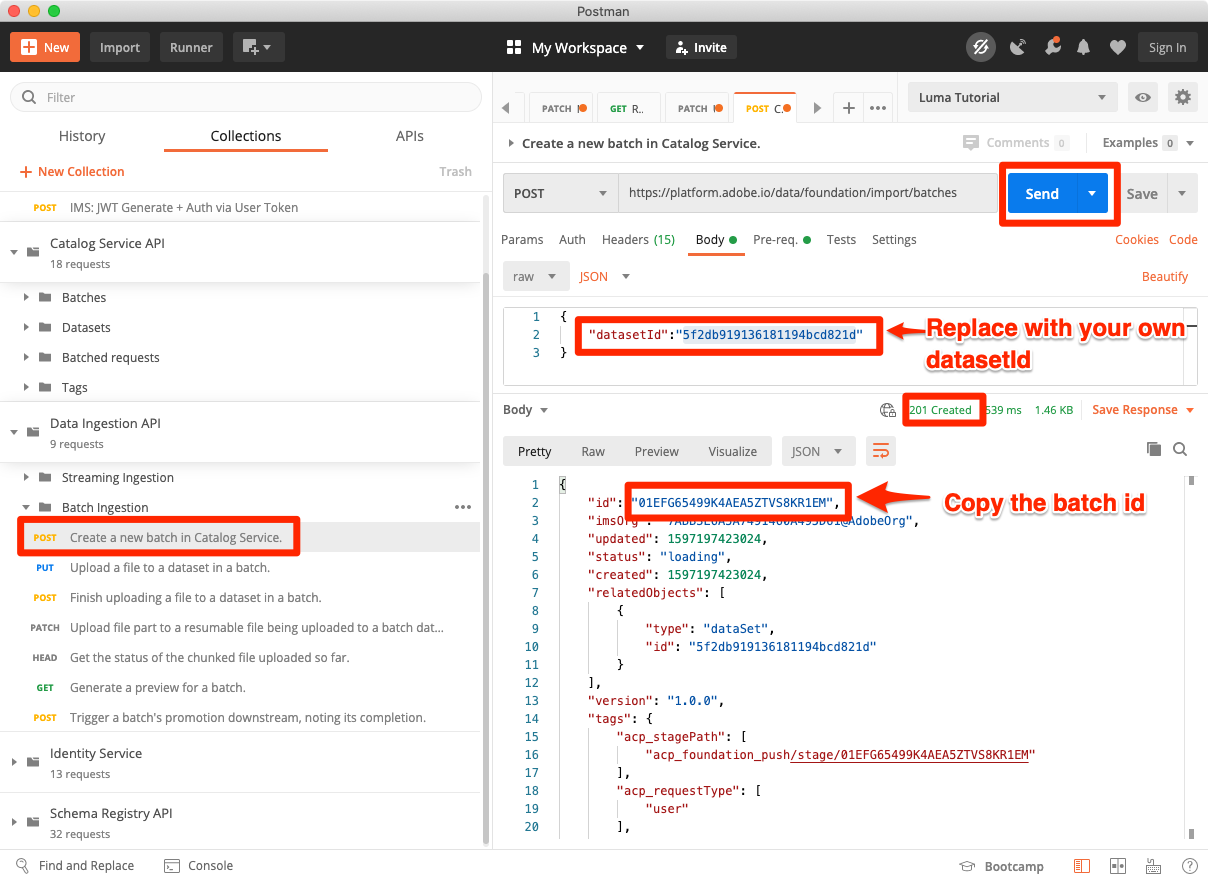
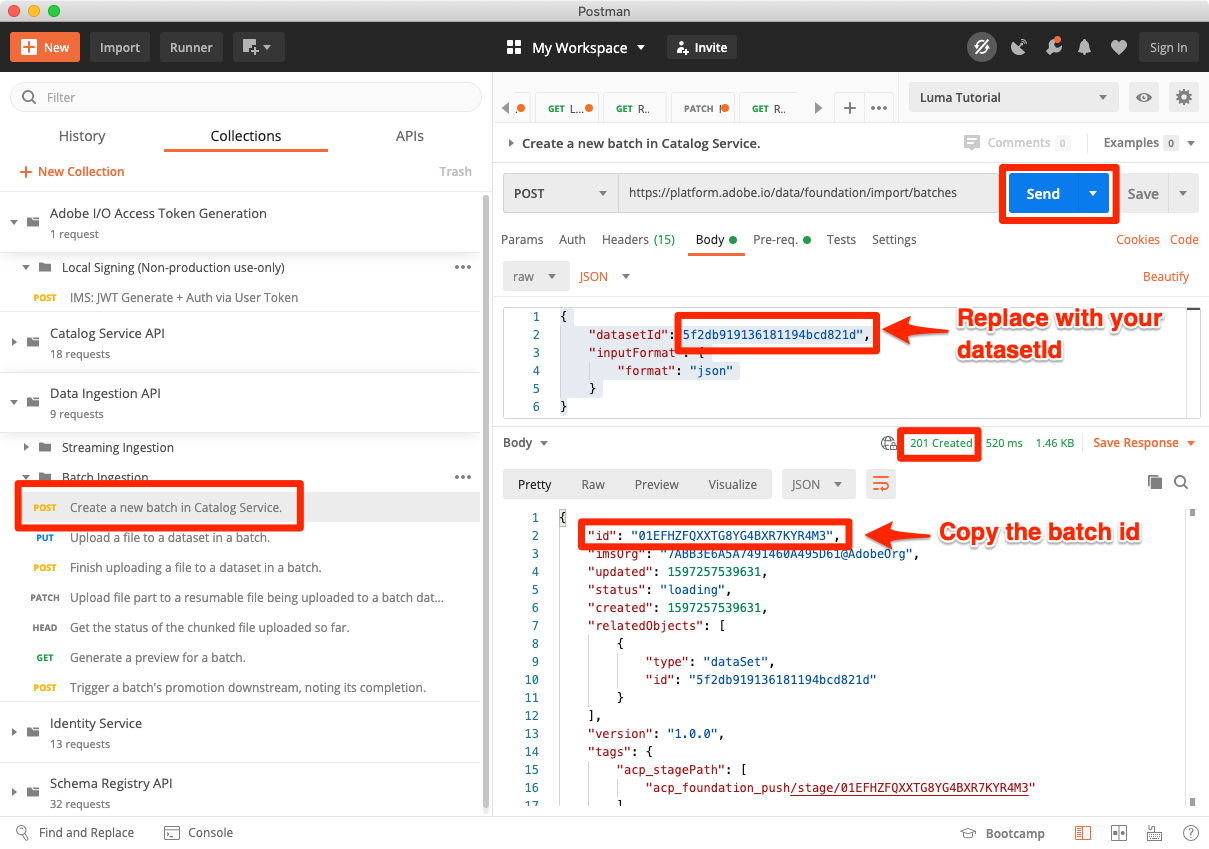
batch ingestion

diff --git a/help/tutorial-data-architect-and-engineer/ingest-batch-data.md b/help/tutorial-data-architect-and-engineer/ingest-batch-data.md
@@ -29,9 +29,22 @@ In the [Configure Permissions](configure-permissions.md) lesson, you setup all t
 * User-role access to the `Luma Tutorial Platform` product profile
 * Developer-role access to the `Luma Tutorial Platform` product profile (for API)
 
-## Ingest data in batches by using Platform UI
+**Additionally you need access to an (S)FTP server or cloud storage solution for the Source exercise.**
+
+## Ingest data in batches with Platform UI
+
+Data can be uploaded directly into a dataset on the datasets screen in JSON and parquet formats.
+
+### Download and prep the data
+
+First, get the sample data and customize it for your tenant:
 
 1. Download [luma-loyalty.json](assets/luma-loyalty.json) file to your **Luma Tutorial Assets** folder.
+1. Open the file in a text editor and replace all instances of `_techmarketingdemos` with your own underscore-tenant value as seen in your own schemas
+1. Save the updated file
+
+### Ingest the data
+
 1. In the Platform UI, click **[!UICONTROL Datasets]** in the left navigation
 1. Click on your `Luma Loyalty Dataset`
 1. Scroll down until you see the **[!UICONTROL Add Data]** section in the right column
@@ -63,11 +76,15 @@ To confirm the data landed in Profile:
 1. Click the `Show profile` button
     ![Confirm a profile from the dataset](assets/ingestion-loyalty-profile.png)
 
-## Ingest data in batches by using API
+## Ingest data in batches with Platform API
 
 Now we will upload data using the API.  
 
-Download [luma-crm.json](assets/luma-crm.json) into your `Luma Tutorial Assets` folder.
+### Download and prep the data
+
+1. Download [luma-crm.json](assets/luma-crm.json) into your `Luma Tutorial Assets` folder.
+1. Open the file in a text editor and replace all instances of `_techmarketingdemos` with your own underscore-tenant value as seen in your own schemas
+1. Save the updated file
 
 ### Get the dataset id
 
@@ -92,7 +109,10 @@ Now we can create a batch in the dataset:
 
     ```json
     {
-        "datasetId":"5f2db919136181194bcd821d"
+        "datasetId":"5f2db919136181194bcd821d",
+        "inputFormat": {
+            "format": "json"
+        }
     }
     ```
 
@@ -107,23 +127,48 @@ Finally we upload the data into the batch
     
 1. Select the request **[!DNL Data Ingestion API > Batch Ingestion > Upload a file to a dataset in a batch.]**
 1. In the **Params** tab, enter your dataset id and batch id into their respective fields
+1. In the **Params** tab, enter `luma-crm.json` as the **filePath**
 1. In the **Body** tab, select the **binary** option
 1. Select the downloaded `luma-crm.json` from your local `Luma Tutorial Assets` folder
-1. Click Send and if everything goes well , you should get '1' as response.
+1. Click **Send** and you should get a 200 OK response with '1' in the response body
 
     ![Data uploaded](assets/ingestion-crm-uploadFile.png)
+
+At this point, if you look at your batch in the Platform UI, you will see that it is still in a loading status:
+![Batch loading](assets/ingestion-crm-loading.png)
+
+Because the Batch API is often used to upload multiple files, you need need to tell Platform when a batch is complete, which we will do in the next step.
+
+### Complete the batch
+
+To complete the batch:
+
+1. Select the request **[!DNL Data Ingestion API > Batch Ingestion > Finish uploading a file to a dataset in a batch.]**
+1. In the **Params** tab, enter `COMPLETE` as the **action**
+1. In the **Params** tab, enter your batch id. Do not worry about dataset id or filePath, if they are present.
+1. Update the URL of the POST remove the dataset id or filePath placeholders, if they are present
+1. Click **Send** and you should get a 200 OK response with '1' in the response body
+
+    ![Batch complete](assets/ingestion-crm-complete.png)
 
 ### Validate the data
 
 Validate the data has landed in the Platform UI just like you did for the Loyalty dataset.
 
-First, confirm the batch using Preview dataset
+First, confirm the batch shows that 1000 records have ingested:
 
-Second, confirm one of your profiles has been created by looking up one of the profiles by the `Luma CRM Id` namespace, e.g. `112ca06ed53d3db37e4cea49cc45b71e`
+![Batch success](assets/ingestion-crm-success.png)
+
+Next, confirm the batch using Preview dataset:
+
+![Batch preview](assets/ingestion-crm-preview.png)
+
+
+Finally, confirm one of your profiles has been created by looking up one of the profiles by the `Luma CRM Id` namespace, e.g. `112ca06ed53d3db37e4cea49cc45b71e`
 
 ![Profile ingested](assets/ingestion-crm-profile.png)
 
-There is one interesting thing that just happened that I want to point out. Open that `Danny Wright` profile. Note that the profile has both a `Lumacrmid` and a `Lumaloyalty` id. Remember the `Luma Loyalty Schema` contained two identity fields, Luma Loyalty Id was the primary identity and CRM Id was a secondary identity. Now that we've uploaded both datasets, they've merged into profile. The Loyalty data had `Daniel` as the first name and "New York City" as the home address, while the CRM data had `Danny` as the first name and `Portland` as the home address for this customer. (We will come back to why the first name displays `Danny` in the lesson on merge policies).
+There is one interesting thing that just happened that I want to point out. Open that `Danny Wright` profile. Note that the profile has both a `Lumacrmid` and a `Lumaloyaltyid`. Remember the `Luma Loyalty Schema` contained two identity fields, Luma Loyalty Id and CRM Id. Now that we've uploaded both datasets, they've merged into a single profile. The Loyalty data had `Daniel` as the first name and "New York City" as the home address, while the CRM data had `Danny` as the first name and `Portland` as the home address for the customer with the same Loyalty Id. We will come back to why the first name displays `Danny` in the lesson on merge policies.
 
 Congratulations, you've just merged profiles!
 
@@ -131,11 +176,18 @@ Congratulations, you've just merged profiles!
 
 ## Ingest data with Workflows
 
-Let's look at another way of uploading data. 
+Let's look at another way of uploading data. The workflows feature allows you to ingest CSV data which is not already modeled in XDM.
 
-Download [luma-products.csv](assets/luma-products.csv) into your `Luma Tutorial Assets` folder.
+### Download and prep the data
 
-Now let's use a workflow:
+1. Download [luma-products.csv](assets/luma-products.csv) into your `Luma Tutorial Assets` folder.
+
+1. Open the file in a text editor and replace all instances of `_techmarketingdemos` with your own underscore-tenant value as seen in your own schemas
+1. Save the updated file
+
+### Create a workflow
+
+Now let's set up workflow:
 
 1. Click **[!UICONTROL Workflows]** in the left navigation
 1. Select **[!UICONTROL Map CSV to XDM schema]** and click the **[!UICONTROL Launch]** button
@@ -148,7 +200,7 @@ Now let's use a workflow:
 1. Click the **[!UICONTROL Finish]** button
     ![Select your dataset](assets/ingestion-products-mapper.png)
 
-### Verify the data
+### Validate the data
 
 When the batch has uploaded, verify the upload by previewing the dataset.
 
@@ -156,7 +208,7 @@ Since the `Luma Product SKU` is a non-people namespace, we won't see any profile
 
 ## Ingest data with Sources
 
-Now let's move into the promised land of _automated_ batch ingestion! 
+Okay, you did things the hard way. Now let's move into the promised land of _automated_ batch ingestion! When I say, "SET IT!" you say, "FORGET IT!" "SET IT!" "FORGET IT!" "SET IT!" "FORGET IT!" Just kidding, you would never do such a thing! Ok, back to work. You're almost done.
 
 Click on **[!UICONTROL Sources]** in the left navigation to open the Sources catalog. Here you will see a variety of out-of-the-box integrations with industry-leading data and storage providers. 
 
@@ -174,17 +226,27 @@ Many of the Sources have a similar configuration workflow, in which you:
 1. Map the fields to your XDM schema
 1. Choose the frequency with which you want to re-ingest data from that location
 
-So let's get started:
+>[!NOTE]
+>
+>The Offline Purchase data we will be using in this exercise contains datetime data. Datetime data should be in either [ISO 8061 formatted strings](https://www.iso.org/iso-8601-date-and-time-format.html) ("2018-07-10T15:05:59.000-08:00") or Unix Time formatted in milliseconds (1531263959000) and are converted at ingestion time to the target XDM type. For more on data conversion and other constraints, see [the Batch Ingestion API documentation](https://docs.adobe.com/content/help/en/experience-platform/ingestion/batch/api-overview.html#types).
 
-1. Download the [luma-offline-purchases.json](assets/luma-offline-purchases.json) file to your local `Luma Tutorial Assets` folder.
-1. Upload it to one of the [!UICONTROL Sources] in the catalog for which you have an account
-1. Filter the [!UICONTROL Sources] catalog to **[!UICONTROL Cloud storage]**
-1. In the box of your preferred Cloud storage vendor, click the **[!UICONTROL Configure]** button (note there are documentation links if you click the  `...`)
+So let's get started.
+
+### Download, prep, and upload the data to your preferred cloud storage vendor
+
+1. Download [luma-offline-purchases.json](assets/luma-offline-purchases.json) into your `Luma Tutorial Assets` folder.
+1. Open the file in a text editor and replace all instances of `_techmarketingdemos` with your own underscore-tenant value as seen in your own schemas
+1. Choose your preferred cloud storage provider, making sure it is available in the [!UICONTROL Sources] catalog
+1. Upload `luma-offline-purchases.json` to a location in your preferred cloud storage provider
+
+### Ingest the data to your preferred cloud storage location
+
+1. In the Platform UI, filter the [!UICONTROL Sources] catalog to **[!UICONTROL Cloud storage]**
+1. Note there are convenient links to documentation under the `...`
+1. In the box of your preferred Cloud storage vendor, click the **[!UICONTROL Configure]** button 
     ![Click configure](assets/ingestion-offline-selectFTP.png)
-
-![Authenticate to the source](assets/ingestion-offline-authentication.png)
-
-
+1. **[!UICONTROL Authentication]** is the first step. Enter the name for your account, e.g. `Luma's FTP Account` and your authentication details. This step should be fairly similar for all cloud storage sources, although the fields may vary slightly. Once you've entered the authentication details for an account, you can reuse them for other source connections that might be sending different data on different schedules from other files in the same account:
+    ![Authenticate to the source](assets/ingestion-offline-authentication.png)
 
 
 ## Additional Resources
